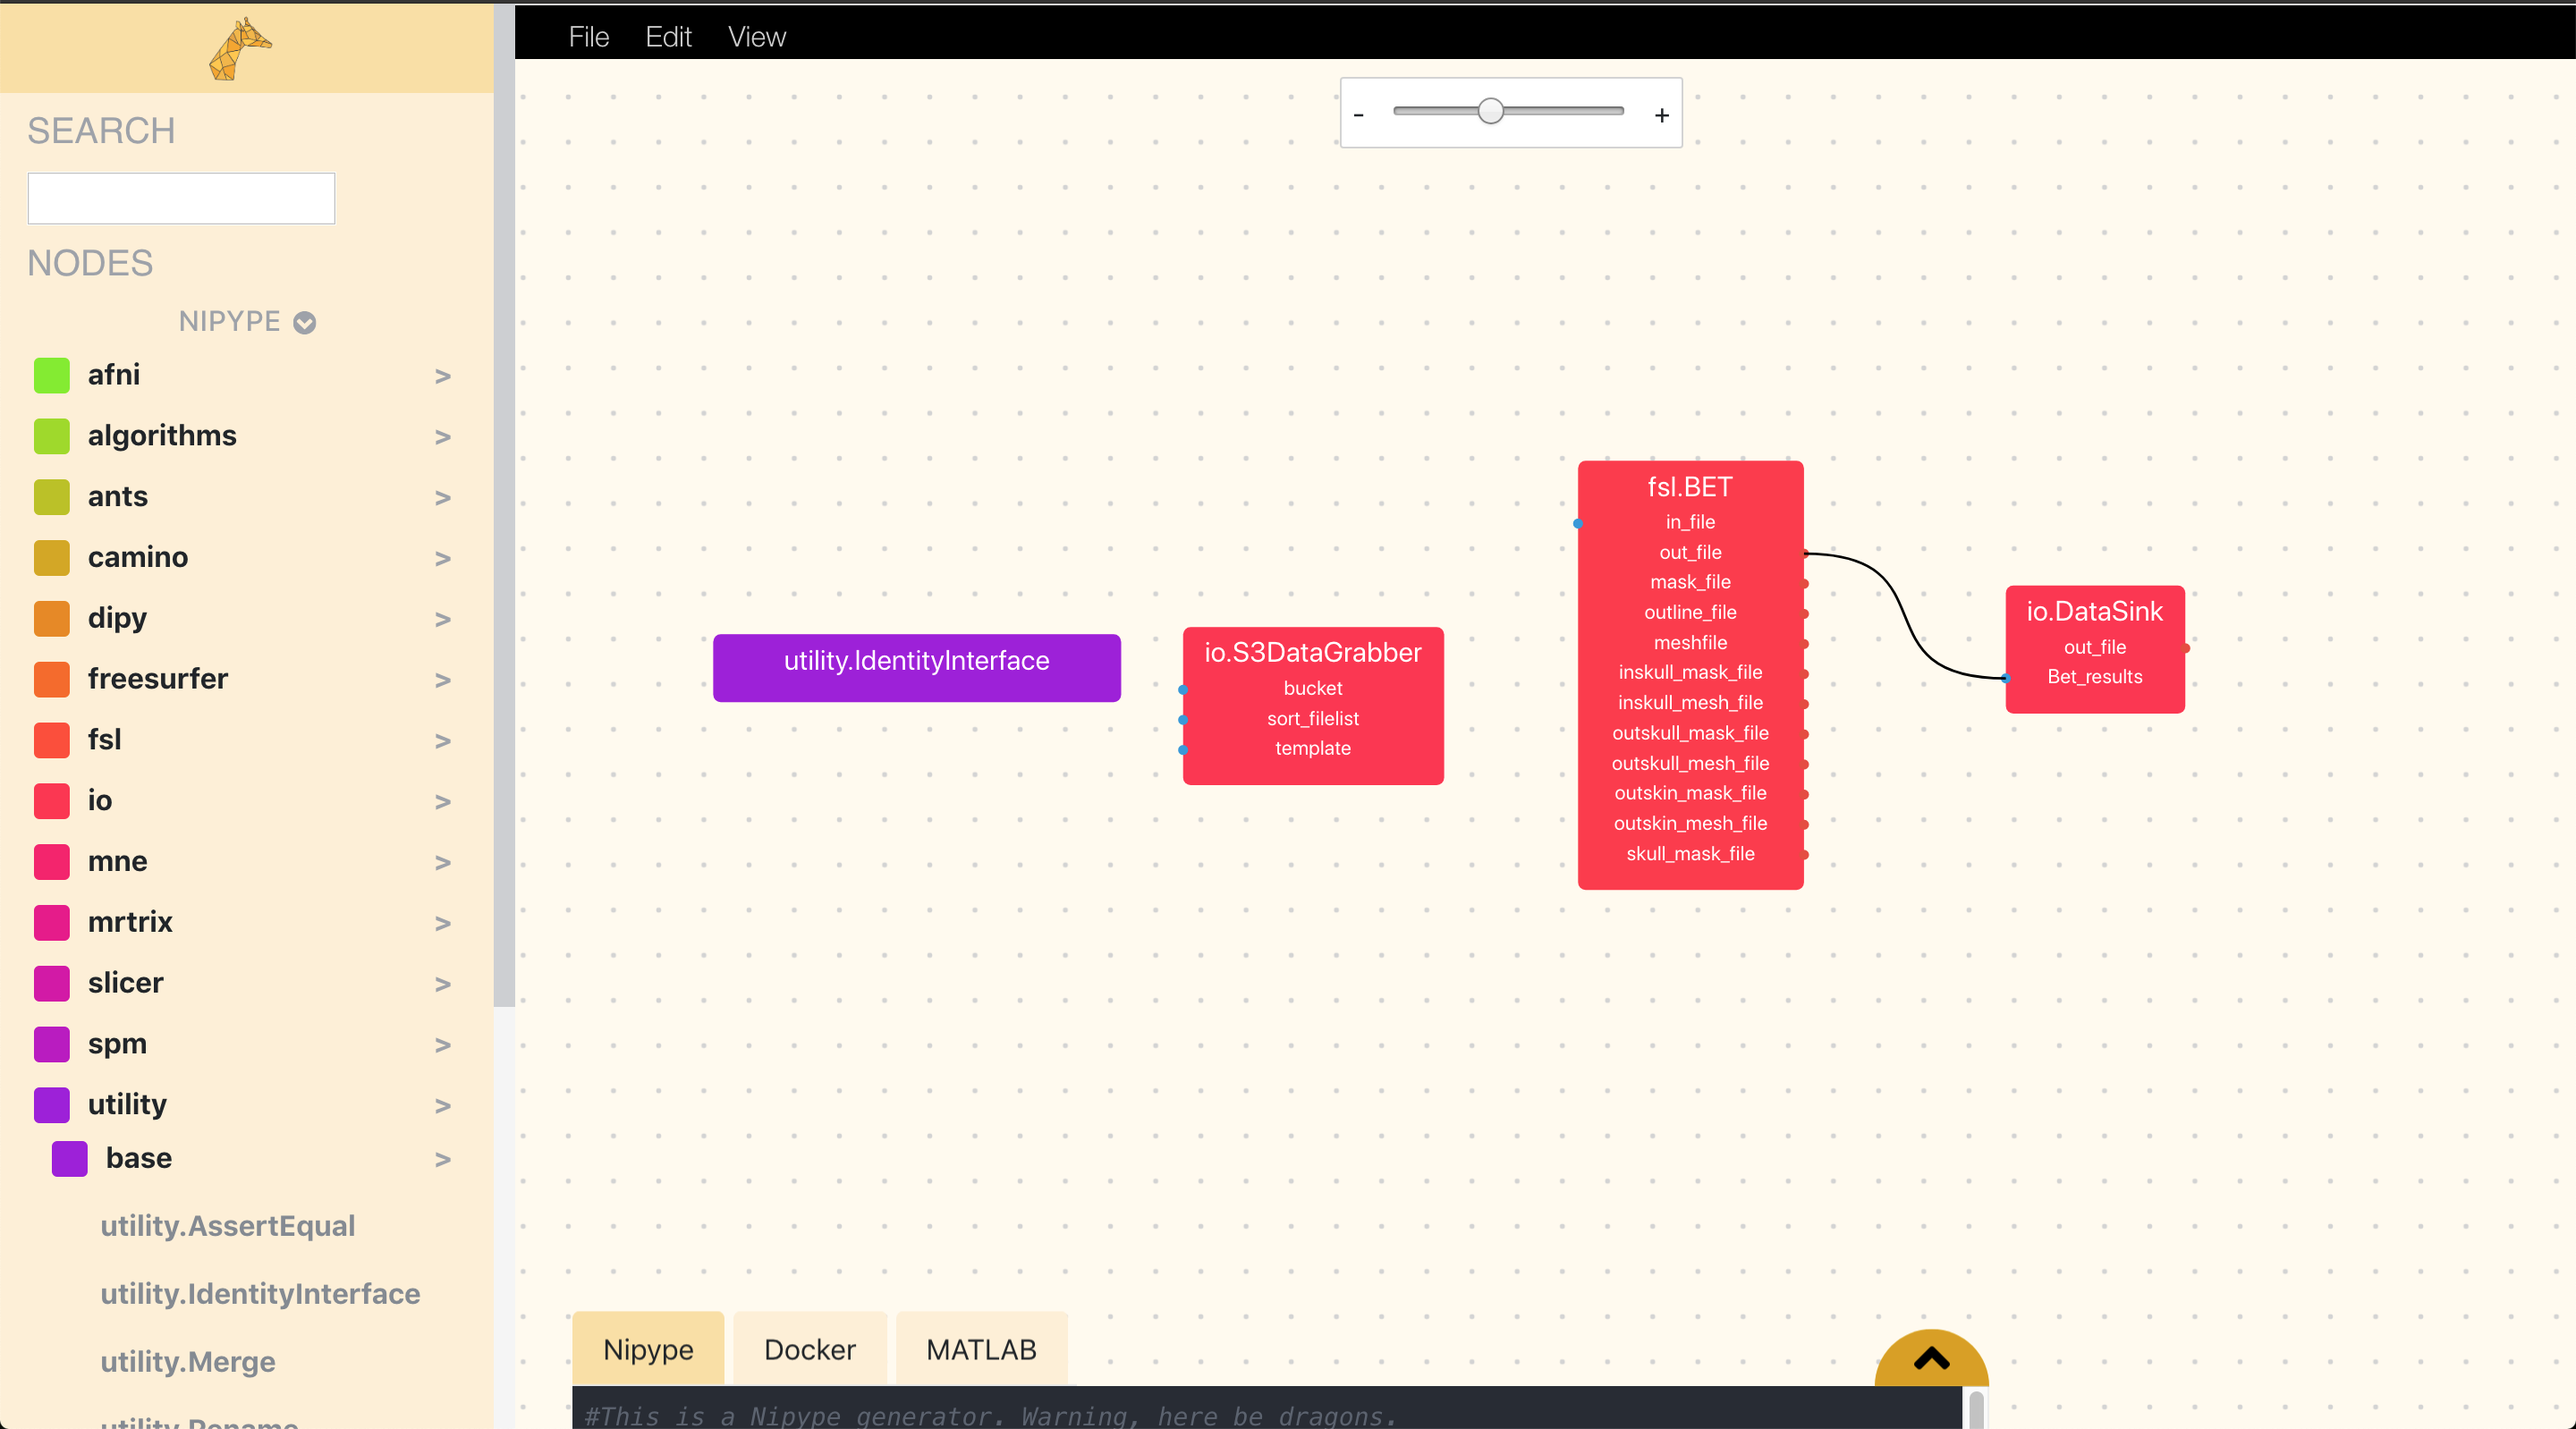
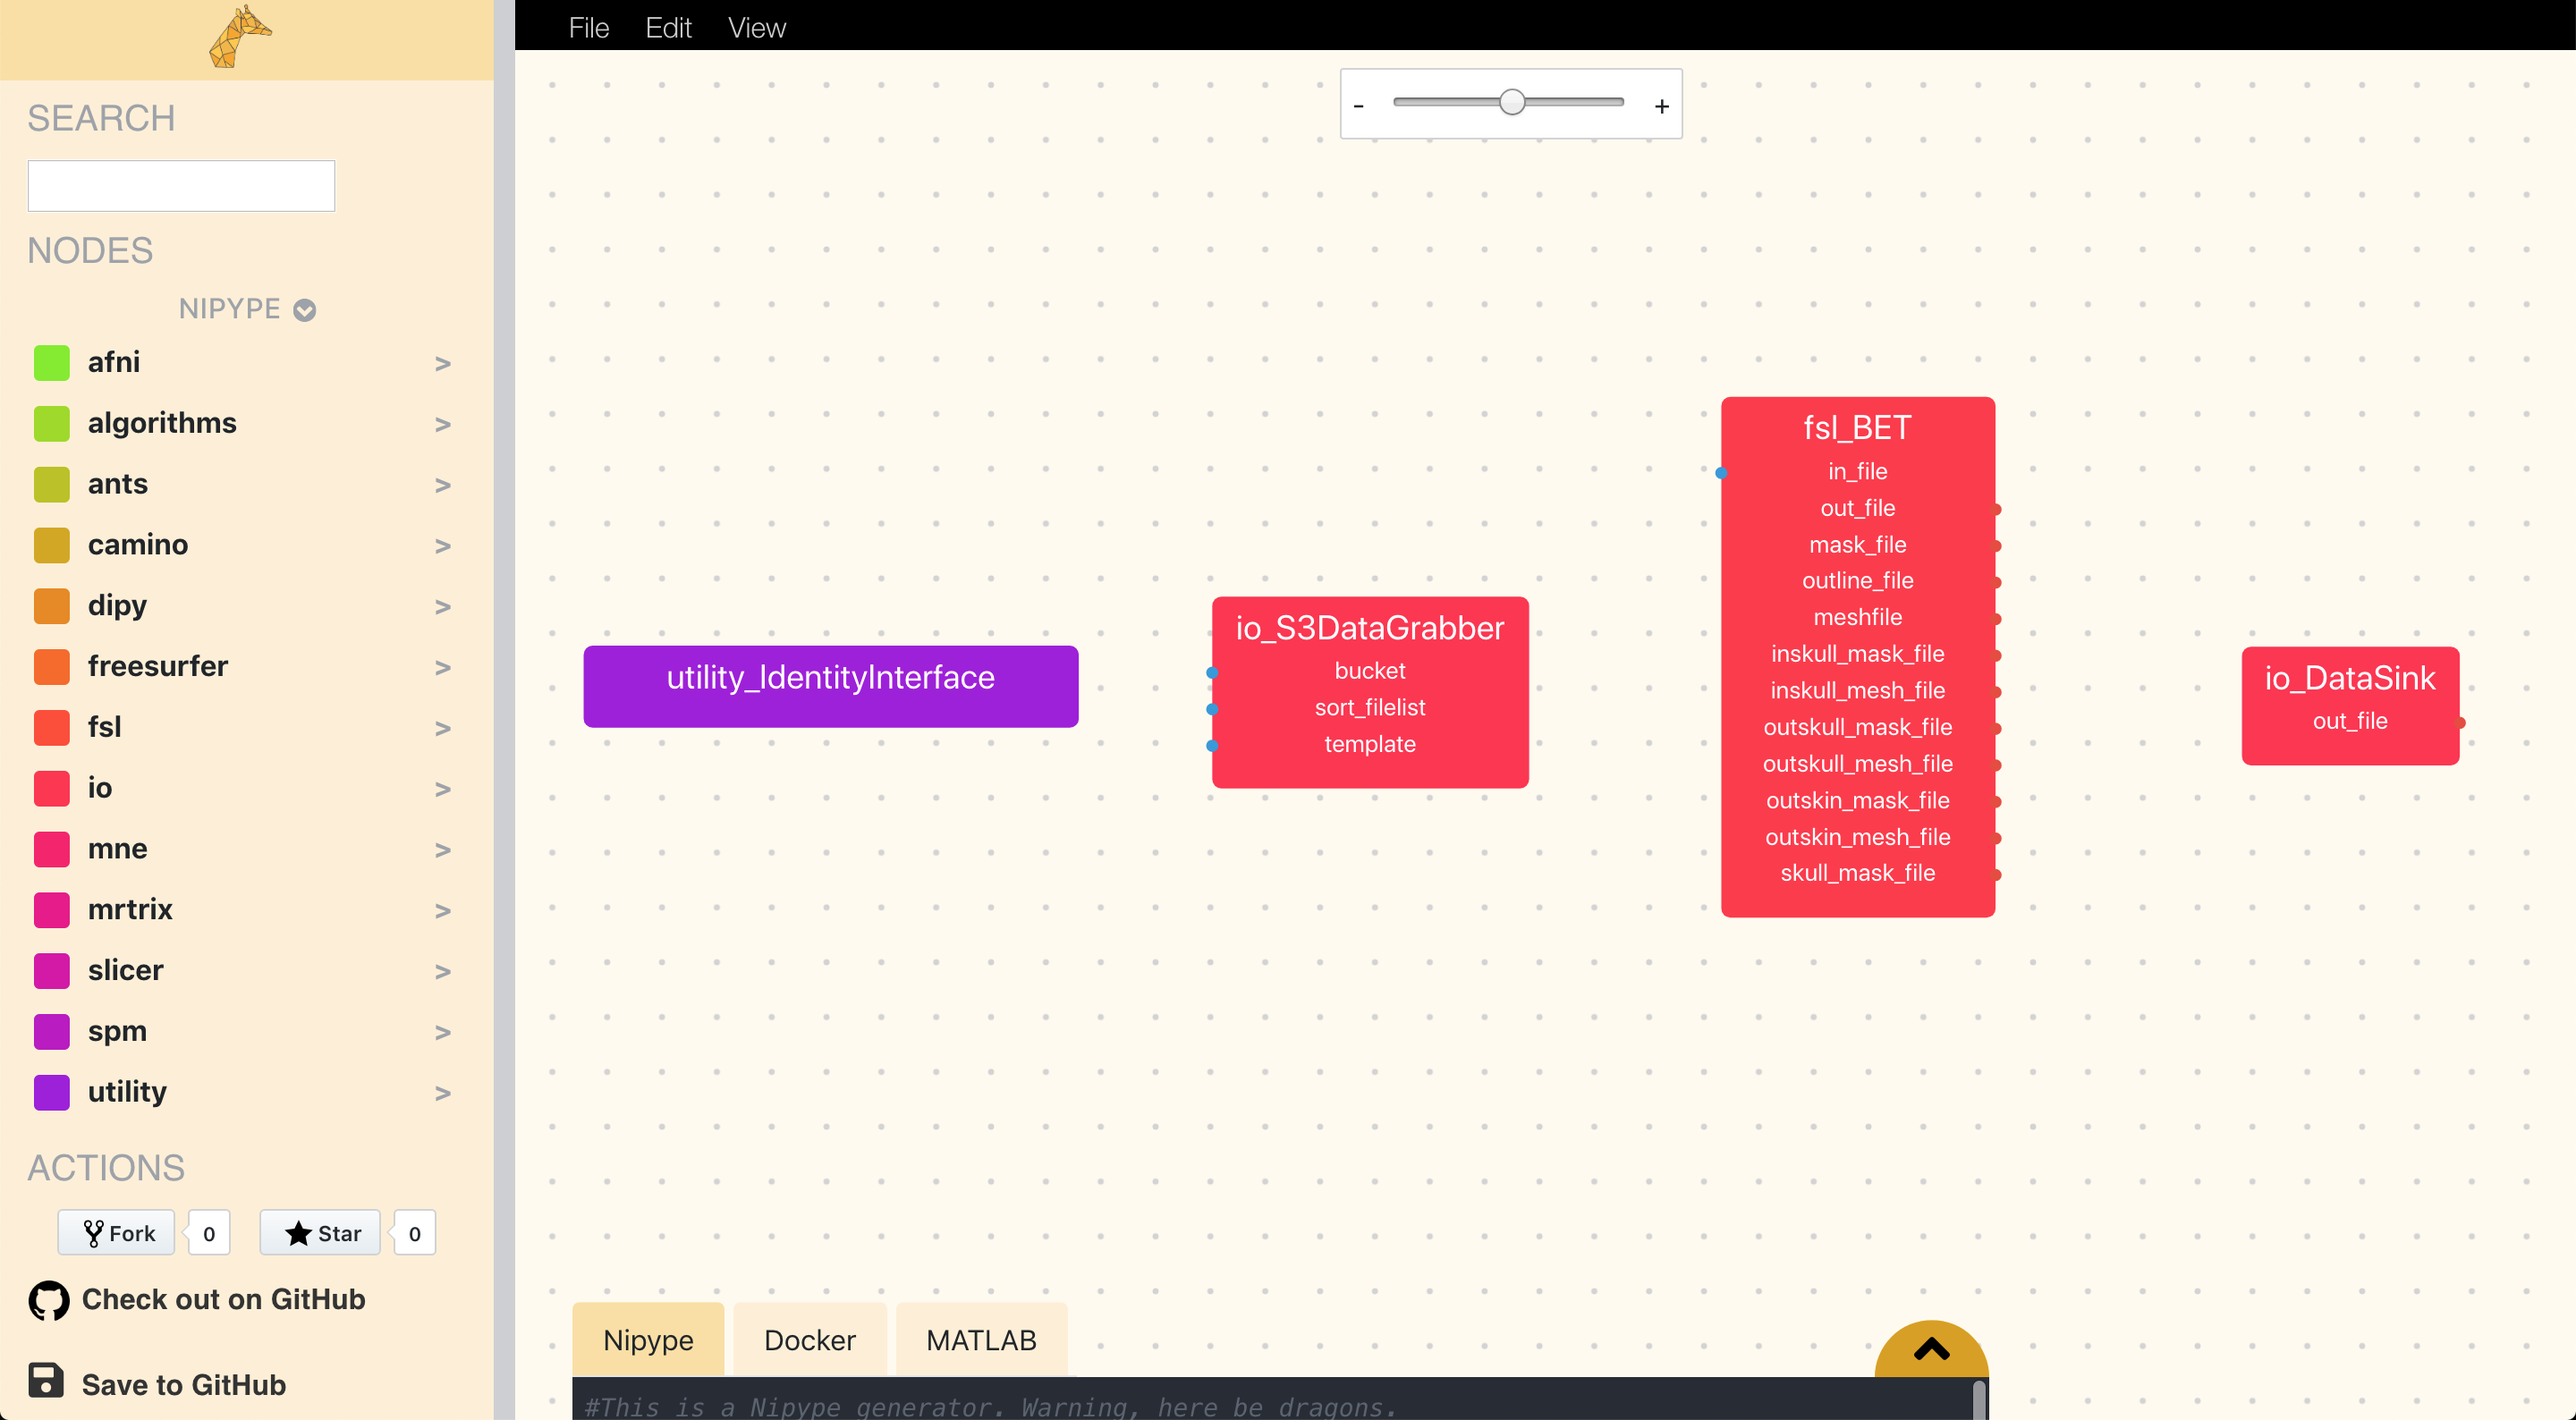
Finish setup and basic branch

diff --git a/_documentation/1_basics_2_parameter_editor.md b/_documentation/1_basics_2_parameter_editor.md
@@ -10,81 +10,54 @@ permalink: /documentation/basics/parameter-editor
 
 Every node in the workflow editor can be customised in the parameter editor.
 Below we can see each node in our skull stripping pipeline has been initialised,
-but how do we make this functional?
-
-
-<figure>
-	<a href="{{ site.url }}{{ site.baseurl }}/documentation/images/basic_nodes.png"><img
-    src="{{ site.url }}{{ site.baseurl }}/{{ example_path }}/documentation/images/basic_nodes.png"></a><figcaption>The skeleton of the skull stripping pipeline.</figcaption>
-</figure>
-
-Well, to change the details of a node, simply click on the node in the workflow editor.
-Let's start by changing the name of each node to make it more understandable.
+and we are ready to adjust the parameters of each node in the "parameter editor".
 
 <figure>
-	<a href="{{ site.url }}{{ site.baseurl }}/documentation/images/change_node_name.gif"><img
-    src="{{ site.url }}{{ site.baseurl }}/{{ example_path }}/documentation/images/change_node_name.gif"></a><figcaption>The "parameter editor" in Porcupine.</figcaption>
+	<a href="{{ site.url }}{{ site.baseurl }}/documentation/images/basic_nodes.png"><img src="{{ site.url }}{{ site.baseurl }}/{{ example_path }}/documentation/images/basic_nodes.png"></a><figcaption>The skeleton of the skull stripping pipeline.</figcaption>
 </figure>
+
 
 ### Contents of entries in the node editor
-Each entry in the node editor consists of three parts:
+Clicking a node in the workflow editor opens the parameter editor. Here we can 
+see the three parts that make up each node:
 
 * the name of the node
 * the URL to the documentation of the node/interface (e.g. the [Nipype documentation on `fsl.BET`](https://nipype.readthedocs.io/en/latest/interfaces/generated/interfaces.fsl/preprocess.html#bet)) represented by the blue globe-icon
 * all of the node's input and output-ports.
 
-When you press the expand-icon (blue arrow), you'll see all input-ports and
-output-ports, sorted by mandatory input-ports first, followed by optional input-ports,
-and finally the output-ports.
-
 <figure>
-	<a href="{{ site.url }}{{ site.baseurl }}/documentation/images/expanded_node_edited.png"><img
-    src="{{ site.url }}{{ site.baseurl }}/{{ example_path }}/documentation/images/expanded_node_edited.png"></a>
-	<figcaption>Editing the node's input and output-ports.</figcaption>
+	<a href="{{ site.url }}{{ site.baseurl }}/documentation/images/parameter_editor.png"><img src="{{ site.url }}{{ site.baseurl }}/{{ example_path }}/documentation/images/parameter_editor.png"></a><figcaption>The "parameter editor" in Porcupine.</figcaption>
 </figure>
+
 
 ### Editing input and output-ports
 Each port consists of several elements relating to its functionality or
 visualization. At the left of each port, its name is listed (e.g. `in_file`),
 followed by a field in which you can manually enter a value for that input-port.
-These manually entered values correspond to hard-coded parameters in your pipeline, which
-are thus not dependent on incoming connections from other nodes. As such,
+These manually entered values correspond to hard-coded parameters in your pipeline, which are thus not dependent on incoming connections from other nodes. As such,
 a value for an input-port is *either* hard-coded *or* set by a connection
 with another node. For example, the `in_files` input-port from an `fsl.FAST`
 node may be hard-coded (like `some_structural_file.nii.gz`) *or* it may receive
 a connection from the `out_file` output-port from e.g. `fsl.BET` (but not both!).
 
-Note that, upon initialization, only fields from input-ports that are visible
+As mentioned before, upon initialization, only mandatory fields are visible
 in the workflow editor (like `in_file`, but not e.g. `mask` in `fsl.BET`) are
-editable. To visualize an input-port (e.g. `mask`), click on the blue eye-icon (which
-redraws the node in the workflow editor with the new input-port), which will
-automatically make the input-port's field editable.
+editable. To visualize an input-port (e.g. `mask`), click on the eye-icon, which redraws the node in the workflow editor with the new input-port.
 
-Note that whatever you write in a port's field, it should conform to the
+Note that whatever you write in a port's field should conform to the
 syntax/idiosyncrasies of the programming language of the framework you're using.
-Therfore, for Nipype-nodes, use Python syntax and for TvM, use MATLAB syntax. For
-example, the `other_priors` input-port from the `fsl.FAST` node expects a list
-of three strings referring to alternative prior images. Adhering to Python's
-syntax for constructing a list, you'd fill in something like:
+Therfore, for Nipype-nodes, use Python syntax. For example, to input a list of 
+images, adhering to Python's syntax for constructing a list, you'd fill in something like:
 
 ```python
 ['img1.nii.gz', 'img2.nii.gz', 'img3.nii.gz']
 ```
 
-Also, notice that *only the fields from input-ports are editable* in Nipype-based nodes;
-output-ports are not. This is because Nipype was designed such that output-ports
-are not directly editable. (For other frameworks, like TvM, however, this is not
-necessarily the case.)
+Also, notice that *only the fields from input-ports are editable* in Nipype-based nodes; output-ports are not. This is because Nipype was designed such that output-ports are not directly editable.
 
 ### Other options (iterate and remove input-ports)
 Then, to the right of the eye-icon you'll see two other icons: a circular arrow
-and a cross, which correspond to options to make an input-port iterable or to
-delete a particular (manually created) input-port, respectively. We'll leave those functionalities
-for now, as they are explained in more detail in other parts of the documentation
-(for more info on iterable input-ports, check the section on [iterables]() and [mapnodes]();
-for more info on manually created input ports, check the section on [file I/O]()).
+and a bin, which correspond to options to make an input-port iterable or to
+delete a particular (manually created) input-port, respectively. We'll leave those functionalities for now, as they are explained in more detail in other parts of the documentation (for more info on iterable input-ports, check the section on [iterables and MapNodes](/Documentation/documentation/nipype/iterables-and-mapnodes).
 
-Now you know how to build pipelines by initializing and connecting nodes in the
-workflow editor and further customizing/adapting your nodes in the node editor.
-But this does not give you anything to really *execute* your pipeline; for this,
-we need to look at Porcupine's "code editor" in more detail [in the next section](/Porcupine/documentation/basics/code-editor)!
+Now you know how to build pipelines by initializing nodes with the node menu, connecting nodes in the workflow editor and further customizing/adapting your nodes in the parameter editor. But this does not give you anything to really *execute* your pipeline; for this, we need to look at Porcupine's "code editor" in more detail [in the next section](/Documentation/documentation/basics/code-editor)!

diff --git a/_documentation/1_basics_1_workflow_editor.md b/_documentation/1_basics_1_workflow_editor.md
@@ -50,7 +50,7 @@ Simply drag your node of choice into the workflow editor and reposition as you p
 ## Input-ports and output-ports
 Looking at, for example, the `fsl.BET` node, you see the name of the interface 
 (here "fsl.BET") at the top of the node. Below the name of the interface, the 
-node's "ports" (as we call them) are listed.Each port is either an input-port, 
+node's "ports" (as we call them) are listed. Each port is either an input-port, 
 recognizable by the little blue dot on the *left* side of the node, or an 
 output-port, recognizable by the little red dot on the *right* side of the node. 
 
@@ -76,12 +76,12 @@ which have a lot of output-ports.).
 
 ## Connecting nodes
 Now, suppose you've created a skull stripping node (`fsl.BET`) and a node to 
-save the results (`io_DataSink`) node, it's trivially easy to connect them. 
+save the results (`io_DataSink`), it's trivially easy to connect them. 
 Just click on an output-port and drag your cursor towards another node's
 input-port, which draws a line between the two ports. To save the results of our 
 skull stripping, we could for example connect the `out_file` output-port
 from the BET-node (representing the skullstripped structural file) with the
-`Bet_results` input-port from io_DataSink-node (representing the file(s) to be saved).
+`Bet_results` input-port from `io_DataSink` node (representing the file(s) to be saved).
 
 <figure>
 	<a href="{{ site.url }}{{ site.baseurl }}/documentation/images/connecting_nodes.gif"><img

diff --git a/_documentation/0_setup_2_get_started.md b/_documentation/0_setup_2_get_started.md
@@ -48,6 +48,16 @@ analysis pipeline. This project is also available at:
 	<figcaption>An active GiraffeTools project overview.</figcaption>
 </figure>
 
+Any changes you make can be saved to your GitHub repository via the `Save to GitHub` button
+underneath the node menu. A window will open allowing you to add an informative commit 
+message. 
+
+<figure>
+	<a href="{{ site.url }}{{ site.baseurl }}/documentation/images/save_to_github.png"><img
+    src="{{ site.url }}{{ site.baseurl }}/{{ example_path }}/documentation/images/save_to_github.png"></a>
+	<figcaption>Commit your changes directly to GitHub.</figcaption>
+</figure>
+
 In order to effectively use GiraffeTools, you have to understand the different windows 
 in GiraffeTools. In the figure below (click to enlarge), you see an 
 [example pipeline](https://giraffe.tools/porcupine/TimVanMourik/SomeGiraffeExample) 
